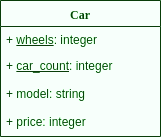
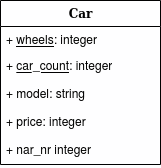
updated classdiagrams for oopython oo guide

Changed region(s): [[0.0, 0.0, 1.0, 1.0]]

diff --git a/content/guide/kom-igang-med-objektorienterad-programmering-i-python/170_objekt_i_objekt.md b/content/guide/kom-igang-med-objektorienterad-programmering-i-python/170_objekt_i_objekt.md
@@ -20,6 +20,8 @@ Vi ska skapa en bilbana där bilar kan tävla om att köra först i mål, vi lä
 
 Vi börjar med att skapa RaceTrack klassen och i den skapar vi fyra Car objekt.
 
+[FIGURE src=/image/oopython/guide/rt_init.png? class="right" caption="Klassdiagram över RaceTrack."]
+
 ```python
 from car import Car
 
@@ -319,7 +321,7 @@ class RaceTrack():
 
     def create_cars(self):
         car1 = Car("model1", 20099, "Danica Patrick")
-        car2 = Car("model2", 100000, "Bo 'Bandi' Darville")
+        car2 = Car("model2", 100000, "Bo 'Bandit' Darville")
         car3 = Car("model3", 300000, "Memphis Raines")
         car4 = Car("model4", 305000, "Shirley Muldowney")
         self.cars = [car1, car2, car3, car4]
@@ -372,4 +374,6 @@ Det blev mycket ändringar i koden, vi börjar överst. I Car gjorde vi inte så
 
 List comprehension används för att skapa skapa en ny list utifrån en sekvens. I vårt fall använder vi den för att populera en lista med alla car objekt som har kommit fram till mållinjen.
 
-Det blev en lång artikel men jag hoppas ni tyckte att det var kul med något lite grafiskt och att ni fick bättre förståelse för klasser. Ni kan hitta alla koden i [example/guide/cars](https://github.com/dbwebb-se/oopython/tree/master/example/guide/cars).
+Det blev en lång artikel men jag hoppas ni tyckte att det var kul med något lite grafiskt och att ni fick bättre förståelse för klasser. Ni kan hitta alla koden i [example/guide/cars](https://github.com/dbwebb-se/oopython/tree/master/example/guide/cars). Nedanför kan ni se ett färdigt klassdiagram för Car och RaceTrack klasserna.
+
+[FIGURE src=/image/oopython/guide/rt_car_full.png? class="right" caption="Färdigt klassdiagram över RaceTrack och car."]

diff --git a/content/guide/kom-igang-med-objektorienterad-programmering-i-python/120_instansmetoder.md b/content/guide/kom-igang-med-objektorienterad-programmering-i-python/120_instansmetoder.md
@@ -4,7 +4,7 @@ revision:
     "2020-01-16": "(B, aar) Finputsad inför VT20."
     "2018-11-18": "(A, aar) Första versionen, uppdelad av större dokument."
 ...
-Metoder
+Instansmetoder
 ==================================
 
 En metod är en funktion som är definierad inuti en klass. Det finns tre typer: instans-, statisk- och klassmetod. Vi har redan skapat en instansmetod i form av `__init__()`. Vi kollar lite mer på instansmetoder.
@@ -21,6 +21,8 @@ Instansmetoder identifieras på att den första parametern heter `self`, oftast.
 ### Instansmetod 
 
 Vi skapar en metod som returnerar en formaterad sträng med information om bilen.
+
+[FIGURE src=/image/oopython/guide/car_instans_meth.png? class="right" caption="Klassdiagram över Car med instansmetod."]
 
 ```python
 class Car():

diff --git a/content/guide/kom-igang-med-objektorienterad-programmering-i-python/160_privat.md b/content/guide/kom-igang-med-objektorienterad-programmering-i-python/160_privat.md
@@ -35,6 +35,8 @@ Vi kan ta priset på bilar som exempel. Priset i sig är inte hemligt men vi vil
 
 Vi uppdaterar Car så att price är privat och skapar en set och en get metod för attributet.
 
+[FIGURE src=/image/oopython/guide/car_priv_attr.png? class="right" caption="Klassdiagram över Car med instansmetod."]
+
 ```python
 class Car():
     wheels = 4
